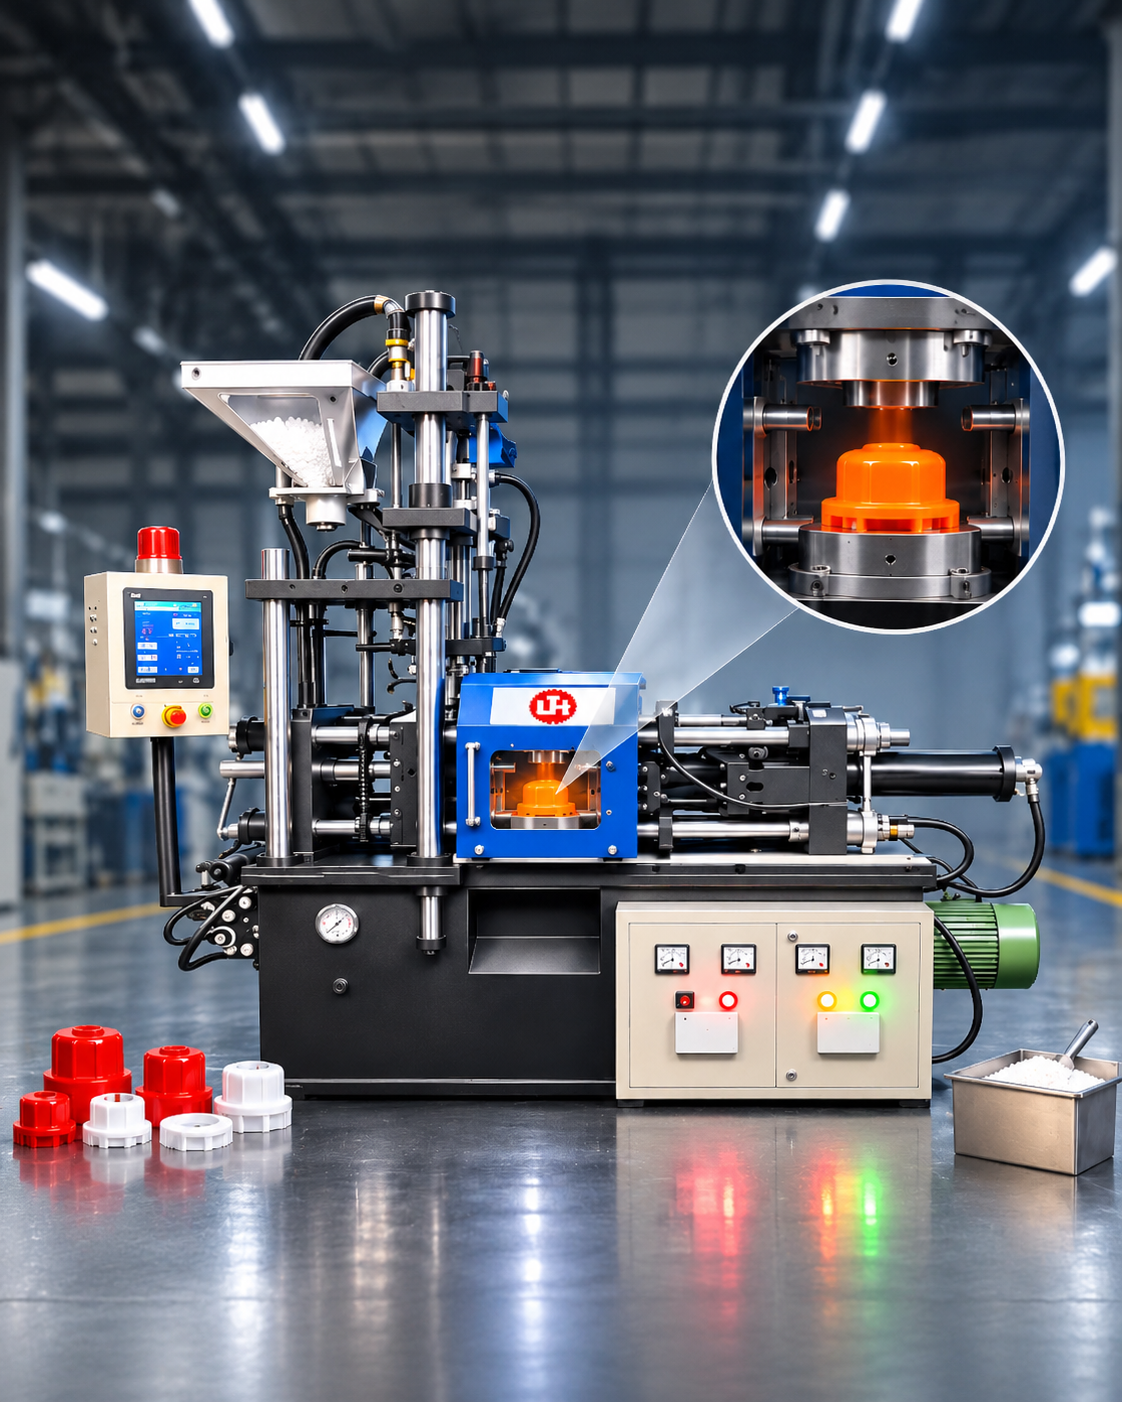
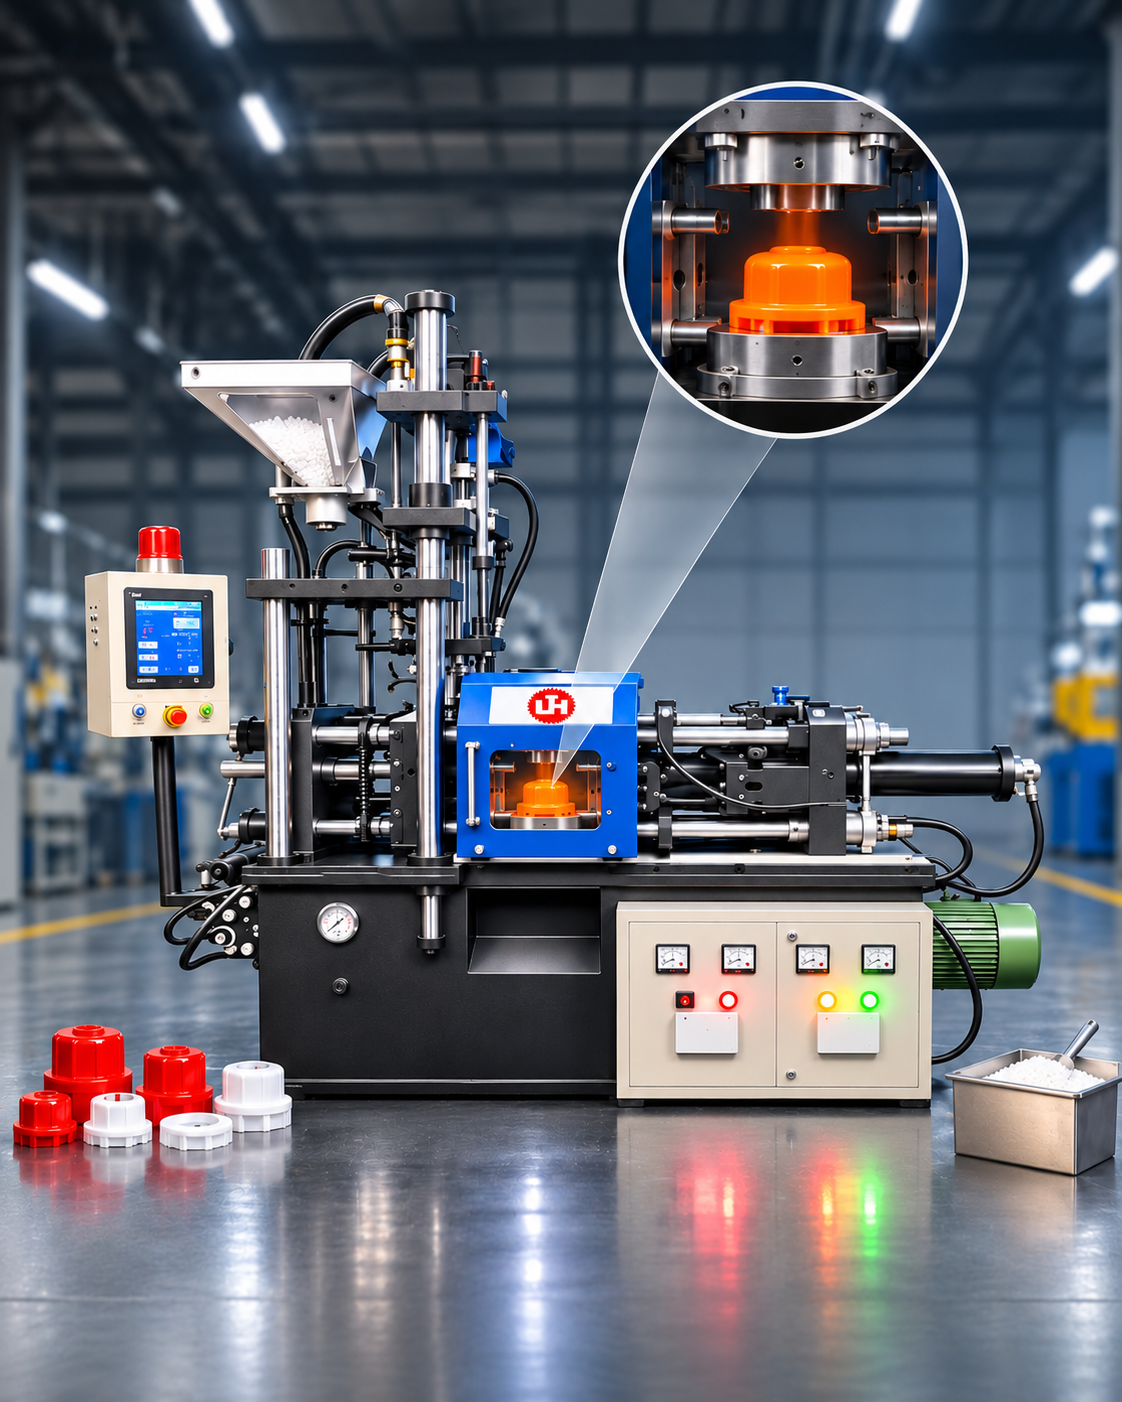
asfd

diff --git a/src/index.css b/src/index.css
@@ -80,6 +80,7 @@
   margin: 0 0 28px;
 }
 
+
 /* Button Wrapper start*/
 .uh-buttons {
   display: flex;
@@ -269,43 +270,40 @@
   background:
     linear-gradient(
       90deg,
-      rgba(0, 0, 0, 0.78) 0%,
-      rgba(0, 0, 0, 0.58) 38%,
-      rgba(0, 0, 0, 0.76) 100%
+      rgba(0, 0, 0, 0.541) 0%,
+      rgba(0, 0, 0, 0.37) 38%,
+      rgba(0, 0, 0, 0.603) 100%
     ),
     linear-gradient(180deg, rgba(0, 0, 0, 0.15) 0%, rgba(0, 0, 0, 0.35) 100%);
   z-index: 1;
 }
 
-
 .uh-watermark {
-    position: absolute;
-    top: 55px;
-    left: 50%;
-    transform: translateX(-50%);
-    width: 100%;
-    text-align: center;
-    font-size: clamp(60px, 11vw, 150px);
-    font-weight: 800;
-    line-height: 1;
-    margin: 0;
-    z-index: 2;
-    pointer-events: none;
+  position: absolute;
+  top: 55px;
+  left: 50%;
+  transform: translateX(-50%);
+  width: 100%;
+  text-align: center;
+  font-size: clamp(60px, 11vw, 150px);
+  font-weight: 800;
+  line-height: 1;
+  margin: 0;
+  z-index: 2;
+  pointer-events: none;
 
-    background: linear-gradient(
-        180deg,
-        rgba(255, 255, 255, 0.486) 0%,
-        rgba(180, 195, 220, 0.151) 50%,
-        rgba(255, 28, 28, 0.322) 100%
-    );
+  background: linear-gradient(
+    180deg,
+    rgba(255, 255, 255, 0.486) 0%,
+    rgba(180, 195, 220, 0.151) 50%,
+    rgba(255, 28, 28, 0.322) 100%
+  );
 
-    -webkit-background-clip: text;
-    background-clip: text;
-    -webkit-text-fill-color: transparent;
-    letter-spacing: -3px;
+  -webkit-background-clip: text;
+  background-clip: text;
+  -webkit-text-fill-color: transparent;
+  letter-spacing: -3px;
 }
-
-
 
 .uh-hero .container {
   position: relative;
@@ -1018,10 +1016,13 @@ a.top-header-item:hover {
   }
 
   .heading {
-    font-size: 32px;
+    font-size: 28px;
     line-height: 1.2;
     letter-spacing: -0.8px;
     margin-bottom: 20px;
+  }
+  .heading br {
+    display: none;
   }
 
   .uh-about-description {
@@ -2268,11 +2269,6 @@ a.top-header-item:hover {
 
 .uh-why-choose-left h2 {
   color: #ffffff;
-  font-size: 68px;
-  line-height: 1.05;
-  font-weight: 700;
-  letter-spacing: -2px;
-  margin: 0 0 28px;
 }
 
 .uh-why-choose-left p {
@@ -2328,10 +2324,6 @@ a.top-header-item:hover {
 }
 
 @media (max-width: 1199px) {
-  .uh-why-choose-left h2 {
-    font-size: 56px;
-  }
-
   .uh-why-choose-left p {
     font-size: 20px;
   }
@@ -2347,10 +2339,6 @@ a.top-header-item:hover {
     gap: 45px;
   }
 
-  .uh-why-choose-left h2 {
-    font-size: 48px;
-  }
-
   .uh-why-choose-left p {
     font-size: 18px;
   }
@@ -2363,12 +2351,6 @@ a.top-header-item:hover {
 @media (max-width: 767px) {
   .uh-why-choose-section::before {
     background-size: 50px 50px;
-  }
-
-  .uh-why-choose-left h2 {
-    font-size: 38px;
-    line-height: 1.1;
-    letter-spacing: -1px;
   }
 
   .uh-why-choose-left p {
@@ -2495,6 +2477,24 @@ a.top-header-item:hover {
   padding: 100px 0;
 }
 
+.uh-faq-section {
+  position: relative;
+  background: #06153d;
+  overflow: hidden;
+  padding: 110px 0;
+}
+
+.uh-faq-section::before {
+  content: "";
+  position: absolute;
+  inset: 0;
+  background-image:
+    linear-gradient(rgba(255, 255, 255, 0.06) 1px, transparent 1px),
+    linear-gradient(90deg, rgba(255, 255, 255, 0.06) 1px, transparent 1px);
+  background-size: 80px 80px;
+  pointer-events: none;
+}
+
 .uh-faq-wrap {
   max-width: 950px;
   margin: 0 auto;
@@ -2518,7 +2518,7 @@ a.top-header-item:hover {
 }
 
 .uh-faq-section .uh-section-number {
-  color: #8a94a8;
+  color: #eeeeee;
   font-size: 12px;
   letter-spacing: 2px;
 }
@@ -2533,7 +2533,7 @@ a.top-header-item:hover {
 /* Main Heading */
 
 .uh-faq-wrap h2 {
-  color: #101b36;
+  color: white;
   font-size: 36px;
   font-weight: 700;
   line-height: 1.2;
@@ -2565,7 +2565,7 @@ a.top-header-item:hover {
   cursor: pointer;
   text-align: left;
   font-family: inherit;
-  color: #101b36;
+  color: white;
   font-size: 19px;
   font-weight: 600;
   line-height: 1.4;
@@ -2587,7 +2587,7 @@ a.top-header-item:hover {
   display: flex;
   align-items: center;
   justify-content: center;
-  color: #101b36;
+  color: white;
   font-size: 26px;
   font-weight: 400;
   line-height: 1;
@@ -2607,7 +2607,7 @@ a.top-header-item:hover {
 }
 
 .uh-faq-answer p {
-  color: #65758c;
+  color: #e7e7e7;
   font-size: 16px;
   line-height: 1.8;
   margin: 0;
@@ -2926,7 +2926,7 @@ a.top-header-item:hover {
 .home-testimonial-section {
   position: relative;
   width: 100%;
-  background: #f8f8f8;
+  /* background: #f8f8f8; */
 }
 
 /* Heading Description */
@@ -3067,7 +3067,12 @@ a.top-header-item:hover {
     flex-basis: 42px;
     font-size: 18px;
   }
-} 
+}
 /* testimonial end */
 
-
+@media (max-width:575px) {
+    .heading br {
+  display: none !important;
+}
+    
+}

diff --git a/src/pages/Home.jsx b/src/pages/Home.jsx
@@ -407,7 +407,7 @@ const Home = () => {
                                     <h3>2014</h3>
                                     <p>
                                         Established
-                                        
+
                                         Since 2014
                                     </p>
                                 </div>
@@ -485,7 +485,7 @@ const Home = () => {
             </section>
 
             {/* about-sec end */}
-            
+
 
             {/* movingStrips start */}
             <MovingStrips />
@@ -505,12 +505,8 @@ const Home = () => {
                                 <span className="uh-section-text">WHY CHOOSE US</span>
                             </div>
 
-                            <h2>
-                                Why Industries
-                                
-                                Choose U-Tech
-                               
-                                Hydraulic?
+                            <h2 className='heading'>
+                                Why Industries Choose U-Tech Hydraulic?
                             </h2>
 
                             <p>
@@ -889,7 +885,7 @@ const Home = () => {
 
 
             {/* faq start */}
-            <UTechFAQ/>
+            <UTechFAQ />
             {/* faq end */}
 
             {/* ================= TESTIMONIAL SECTION ================= */}
